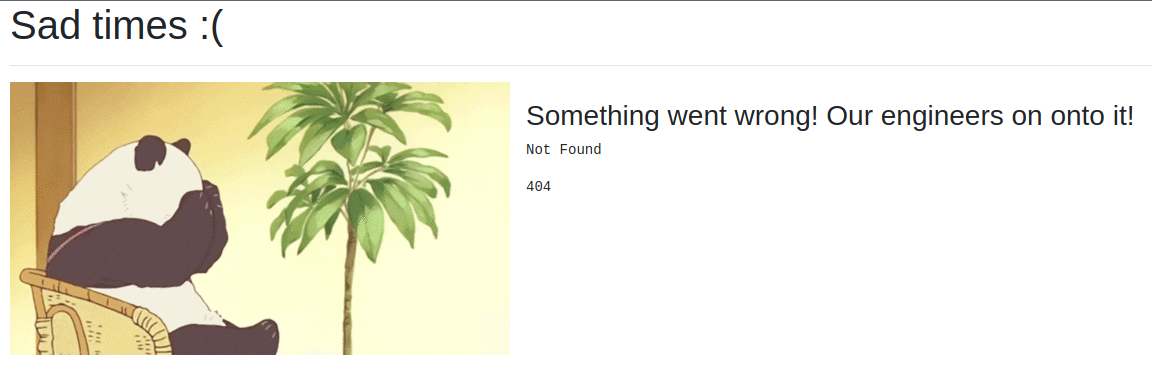
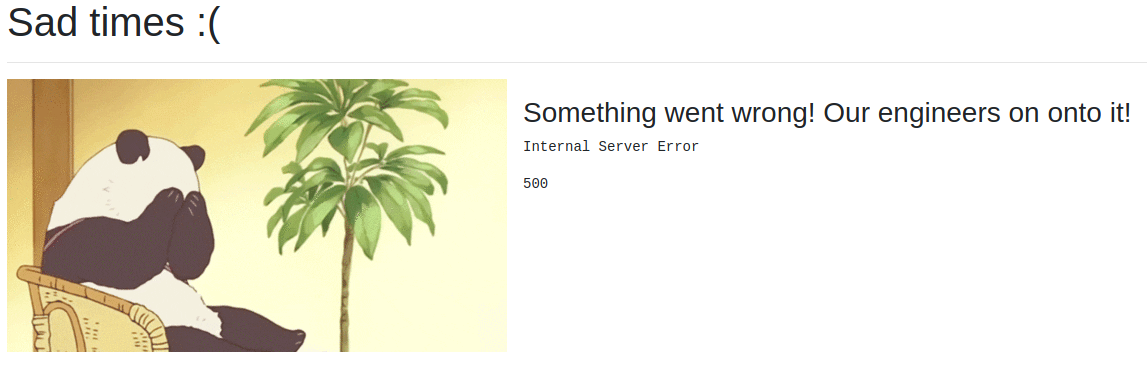
chore: add product details page

diff --git a/consumer/src/main/resources/templates/details.html b/consumer/src/main/resources/templates/details.html
@@ -1,7 +1,7 @@
 <!DOCTYPE HTML>
 <html xmlns:th="http://www.thymeleaf.org">
 <head>
-    <title>Pact Workshop: Default product catalogue</title>
+    <title>Pact Workshop: Product details</title>
     <meta http-equiv="Content-Type" content="text/html; charset=UTF-8" />
     <meta charset="utf-8"/>
     <meta content="width=device-width, initial-scale=1" name="viewport"/>
@@ -12,20 +12,34 @@
 </head>
 <body>
     <div class="container-fluid">
-        <h1 th:text="${catalogue.name}" />
         <table class="table">
             <thead>
                 <tr>
-                    <th>Product</th>
-                    <th>Type</th>
+                    <th>Field</th>
+                    <th>Value</th>
                     <th/>
                 </tr>
             </thead>
             <tbody>
-                <tr th:each="prod : ${catalogue.products}">
-                    <td th:text="${prod.name}" />
-                    <td th:text="${prod.type}" />
-                    <td><a th:href="${'/catalogue/' + prod.id}">Details ...</a></td>
+                <tr>
+                    <td>Id</td>
+                    <td th:text="${product.id}" />
+                </tr>
+                <tr>
+                    <td>Name</td>
+                    <td th:text="${product.name}" />
+                </tr>
+                <tr>
+                    <td>Type</td>
+                    <td th:text="${product.type}" />
+                </tr>
+                <tr>
+                    <td>Code</td>
+                    <td th:text="${product.code}" />
+                </tr>
+                <tr>
+                    <td>Version</td>
+                    <td th:text="${product.version}" />
                 </tr>
             </tbody>
         </table>

diff --git a/consumer/src/main/java/io/pact/workshop/product_catalogue/controllers/ProductCatalogueController.java b/consumer/src/main/java/io/pact/workshop/product_catalogue/controllers/ProductCatalogueController.java
@@ -6,6 +6,7 @@ import org.springframework.beans.factory.annotation.Autowired;
 import org.springframework.stereotype.Controller;
 import org.springframework.ui.Model;
 import org.springframework.web.bind.annotation.GetMapping;
+import org.springframework.web.bind.annotation.PathVariable;
 
 @Controller
 public class ProductCatalogueController {
@@ -17,5 +18,11 @@ public class ProductCatalogueController {
     ProductCatalogue catalogue = new ProductCatalogue("Default Catalogue", productServiceClient.fetchProducts().getProducts());
     model.addAttribute("catalogue", catalogue);
     return "catalogue";
+  }
+
+  @GetMapping("/catalogue/{id}")
+  public String catalogue(@PathVariable("id") Long id, Model model) {
+    model.addAttribute("product", productServiceClient.getProductById(id));
+    return "details";
   }
 }

diff --git a/README.md b/README.md
@@ -262,7 +262,14 @@ Let's see what happens!
 
 ![Failed page](diagrams/workshop_step2_failed_page.png)
 
-Doh! We are getting 404 everytime we try to view detailed product information. On closer inspection, the provider only knows about `/product/{id}` and `/products`.
+Doh! We are getting 500 everytime we try to view detailed product information. On closer inspection, 
+we can see a 404 from the Product Service in the logs.
+
+```
+HttpClientErrorException$NotFound: 404 : [{"timestamp":"2021-02-25T05:27:51.264+00:00","status":404,"error":"Not Found","message":"","path":"/products/9"}]]
+```
+
+The issue is that the provider only knows about `/product/{id}` and `/products`.
 
 We need to have a conversation about what the endpoint should be, but first...
 
